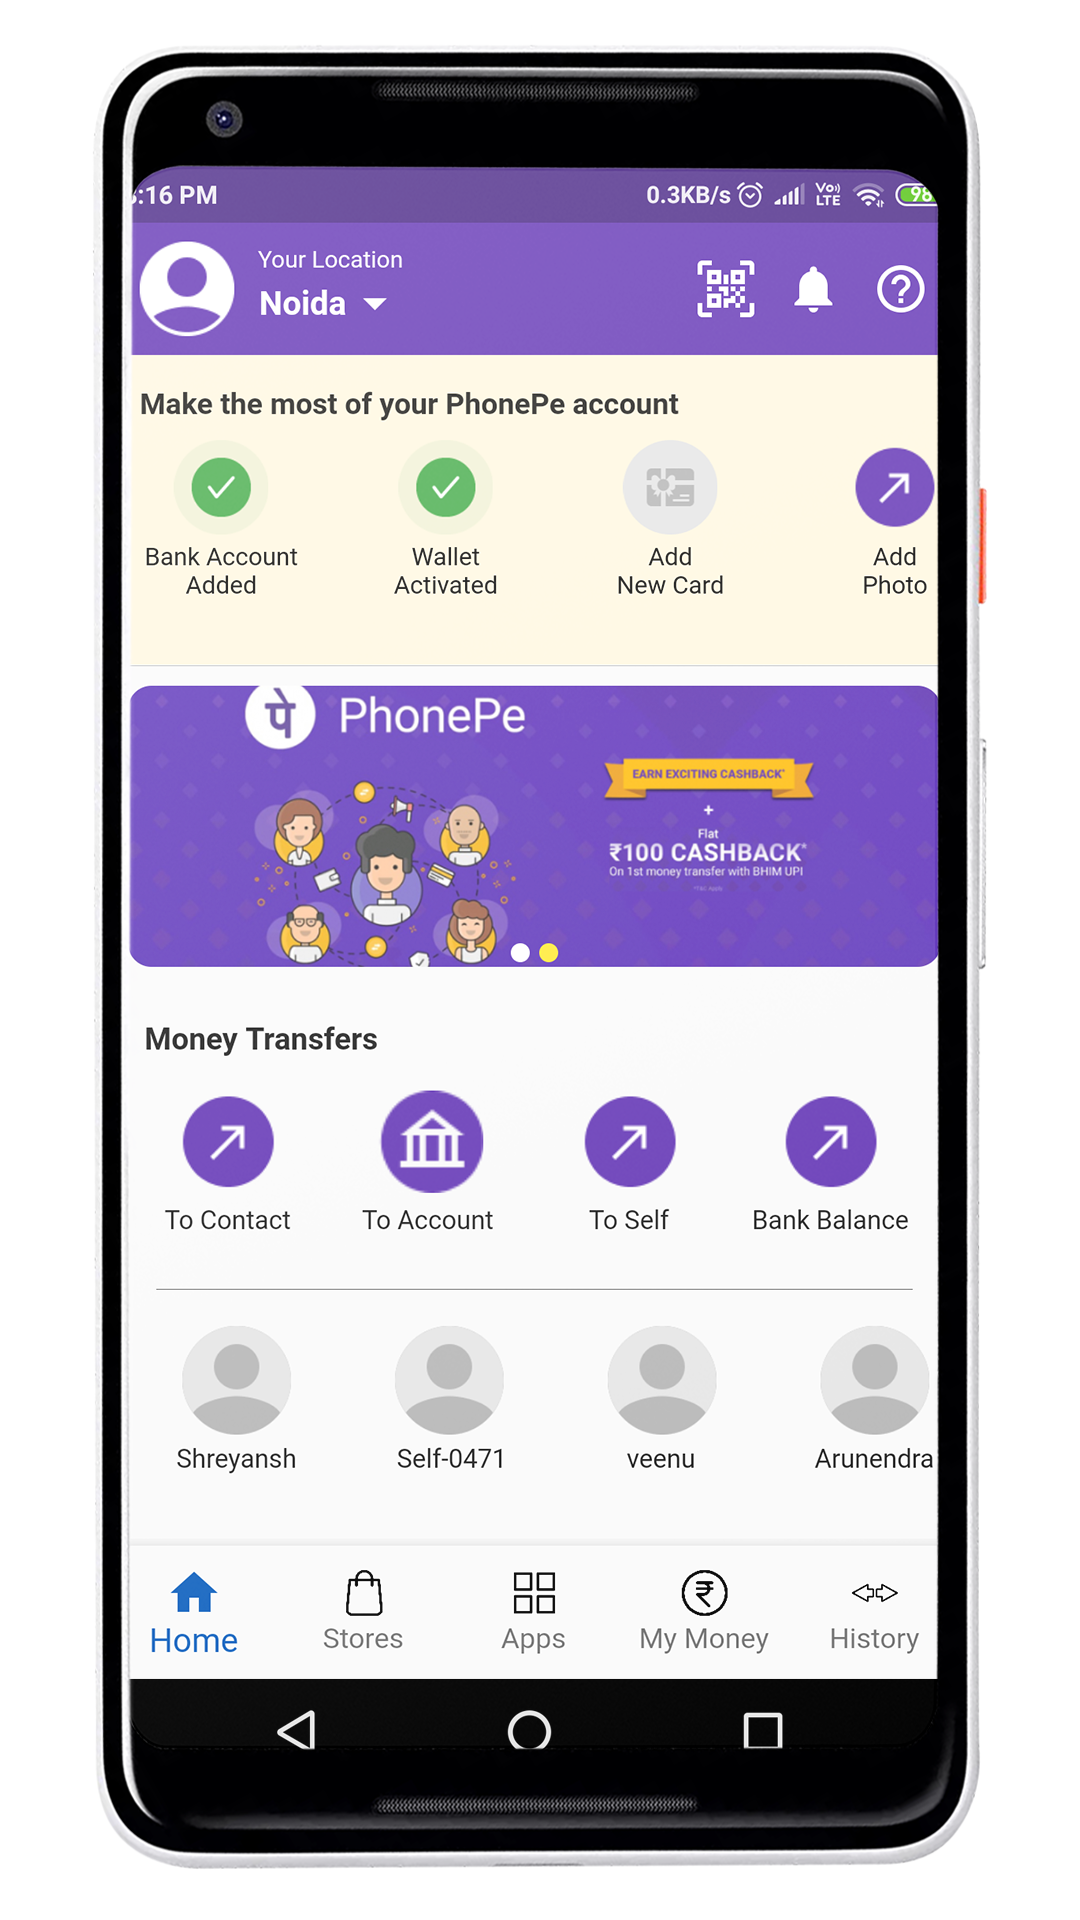
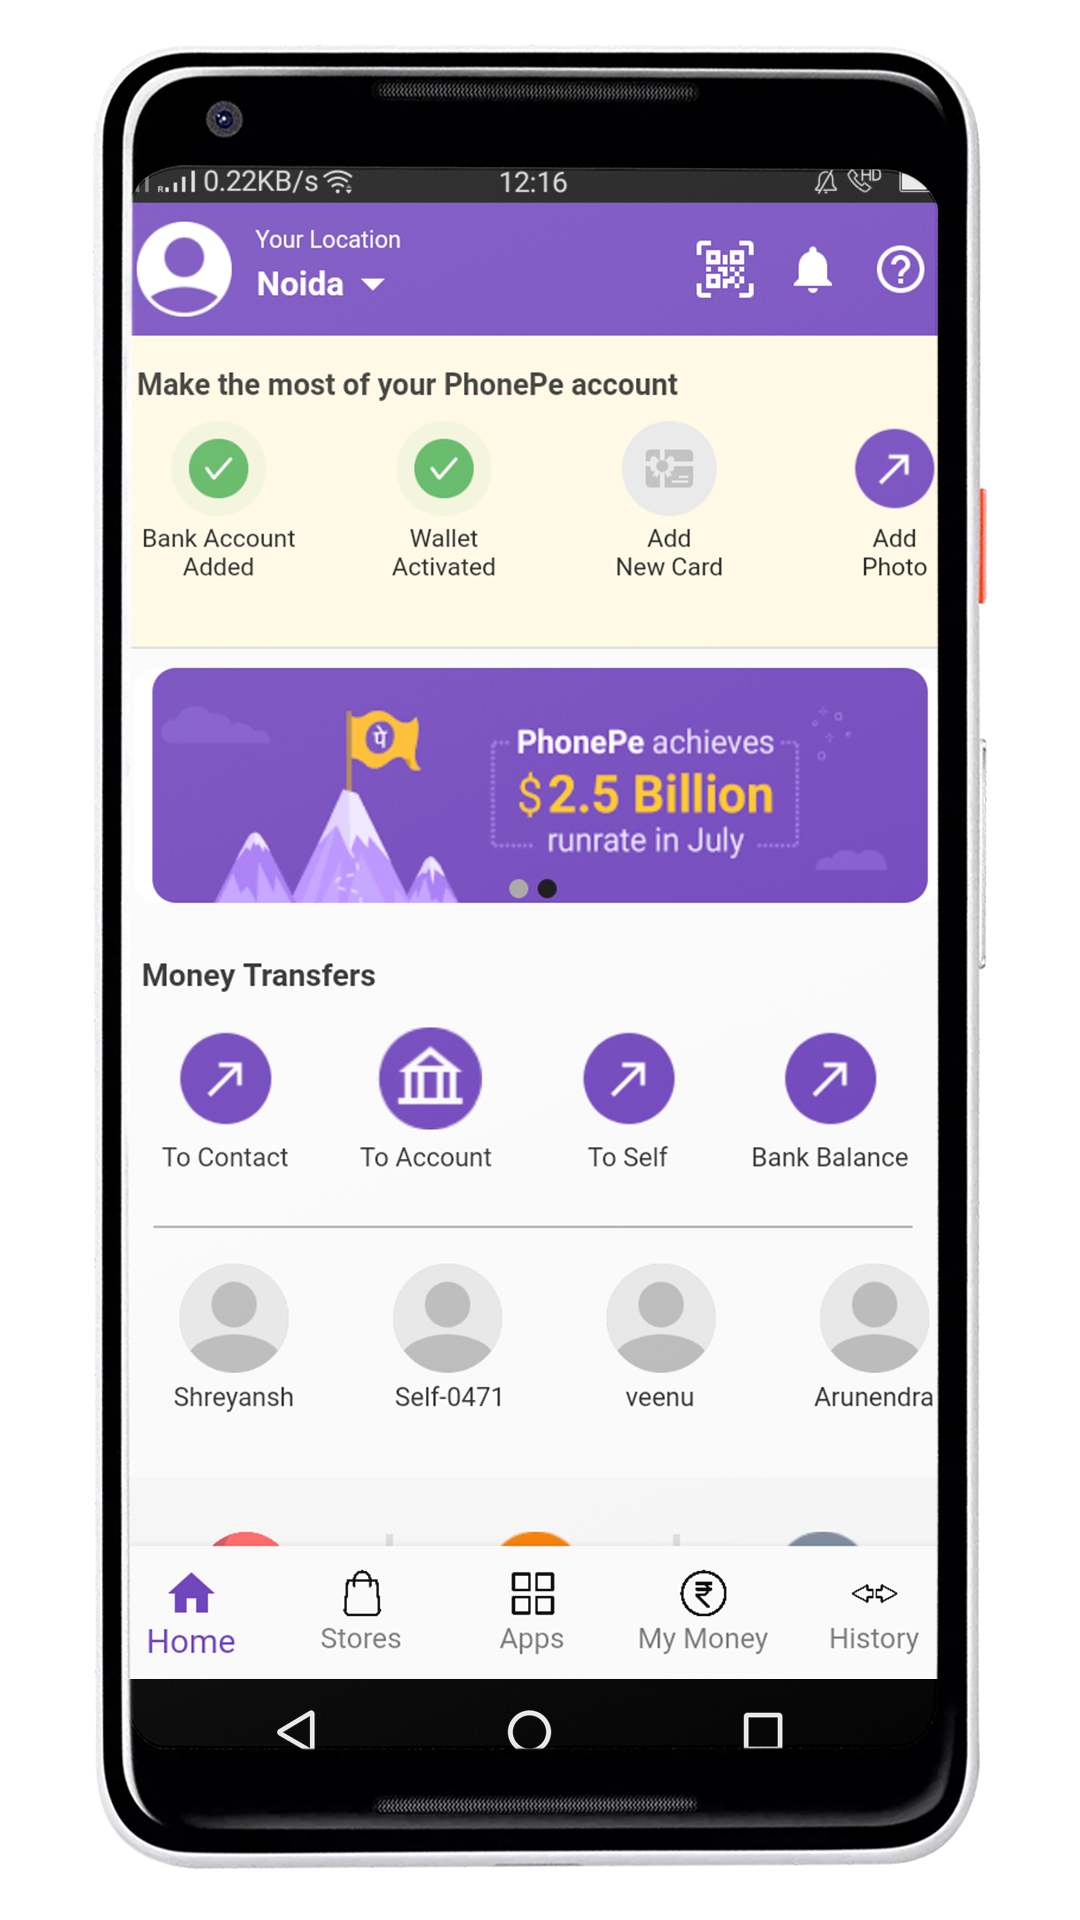
Updated UI

diff --git a/lib/ui/phonepe.dart b/lib/ui/phonepe.dart
@@ -98,6 +98,7 @@ class _PhonePeState extends State<PhonePe> {
   Widget _bottemTab() {
     return new BottomNavigationBar(
         currentIndex: 0,
+        selectedItemColor: Colors.deepPurple,
         type: BottomNavigationBarType.fixed,
         items: [
           new BottomNavigationBarItem(
@@ -190,7 +191,7 @@ class _PhonePeState extends State<PhonePe> {
             child: Stack(
           children: <Widget>[
             Container(
-              height: 140,
+              height: MediaQuery.of(context).size.width/3.0,
               width: MediaQuery.of(context).size.width,
               child: Container(
                 child: Padding(
@@ -247,7 +248,6 @@ class _PhonePeState extends State<PhonePe> {
               padding: const EdgeInsets.only(left: 8),
               child: Container(
                 height: 85,
-
                 child: GridView.builder(
                     gridDelegate: SliverGridDelegateWithFixedCrossAxisCount(
                         crossAxisCount: 1),
@@ -257,15 +257,13 @@ class _PhonePeState extends State<PhonePe> {
                     itemBuilder: (context, index) {
                       return MoneyTransfer(_getMoneyTransferList()[index]);
                     }),
-
               ),
             ),
-
           ],
         )),
         SliverToBoxAdapter(
           child: Padding(
-            padding: const EdgeInsets.only(left: 20, right: 20,top: 0),
+            padding: const EdgeInsets.only(left: 20, right: 20, top: 0),
             child: Divider(
               color: Colors.grey[700],
               height: 1,
@@ -274,10 +272,12 @@ class _PhonePeState extends State<PhonePe> {
         ),
         SliverToBoxAdapter(
           child: Padding(
-            padding: const EdgeInsets.only(left: 9, top: 15, ),
+            padding: const EdgeInsets.only(
+              left: 9,
+              top: 15,
+            ),
             child: Container(
               height: 90,
-
               child: GridView.builder(
                   gridDelegate: SliverGridDelegateWithFixedCrossAxisCount(
                       crossAxisCount: 1),
@@ -464,8 +464,8 @@ class _PhonePeState extends State<PhonePe> {
 
   List<ImageSliderModel> _getImageSliderList() {
     List<ImageSliderModel> list = new List();
-    list.add(new ImageSliderModel("assets/Banner_PhonePe.png"));
-    list.add(new ImageSliderModel("assets/Banner_PhonePe.png"));
+    list.add(new ImageSliderModel("assets/banner7.png"));
+    list.add(new ImageSliderModel("assets/banner7.png"));
 
     return list;
   }
@@ -510,21 +510,27 @@ class _PhonePeState extends State<PhonePe> {
 
   Widget imageSliderItem(ImageSliderModel i) {
     return Container(
+
         padding: EdgeInsets.only(left: 8, right: 8),
-        decoration: BoxDecoration(borderRadius: BorderRadius.circular(10)),
-        width: MediaQuery.of(context).size.width,
-        height: MediaQuery.of(context).size.height,
+        decoration: BoxDecoration(
+            borderRadius: BorderRadius.circular(10), color: Colors.white),
+        width: MediaQuery.of(context).size.width / 1.05,
         child: ClipRRect(
+          clipBehavior: Clip.antiAlias,
           borderRadius: BorderRadius.circular(10),
           child: Image.asset(
             i.path,
-            fit: BoxFit.cover,
+fit: BoxFit.fill,
+
+
+//            width: MediaQuery.of(context).size.width/4,
+//            height: MediaQuery.of(context).size.height,
           ),
         ));
   }
 
   Color dotColor(int index) {
-    return _currentIndex == index ? Colors.white : Colors.yellow;
+    return _currentIndex == index ? Colors.grey : Colors.black;
   }
 }
 
